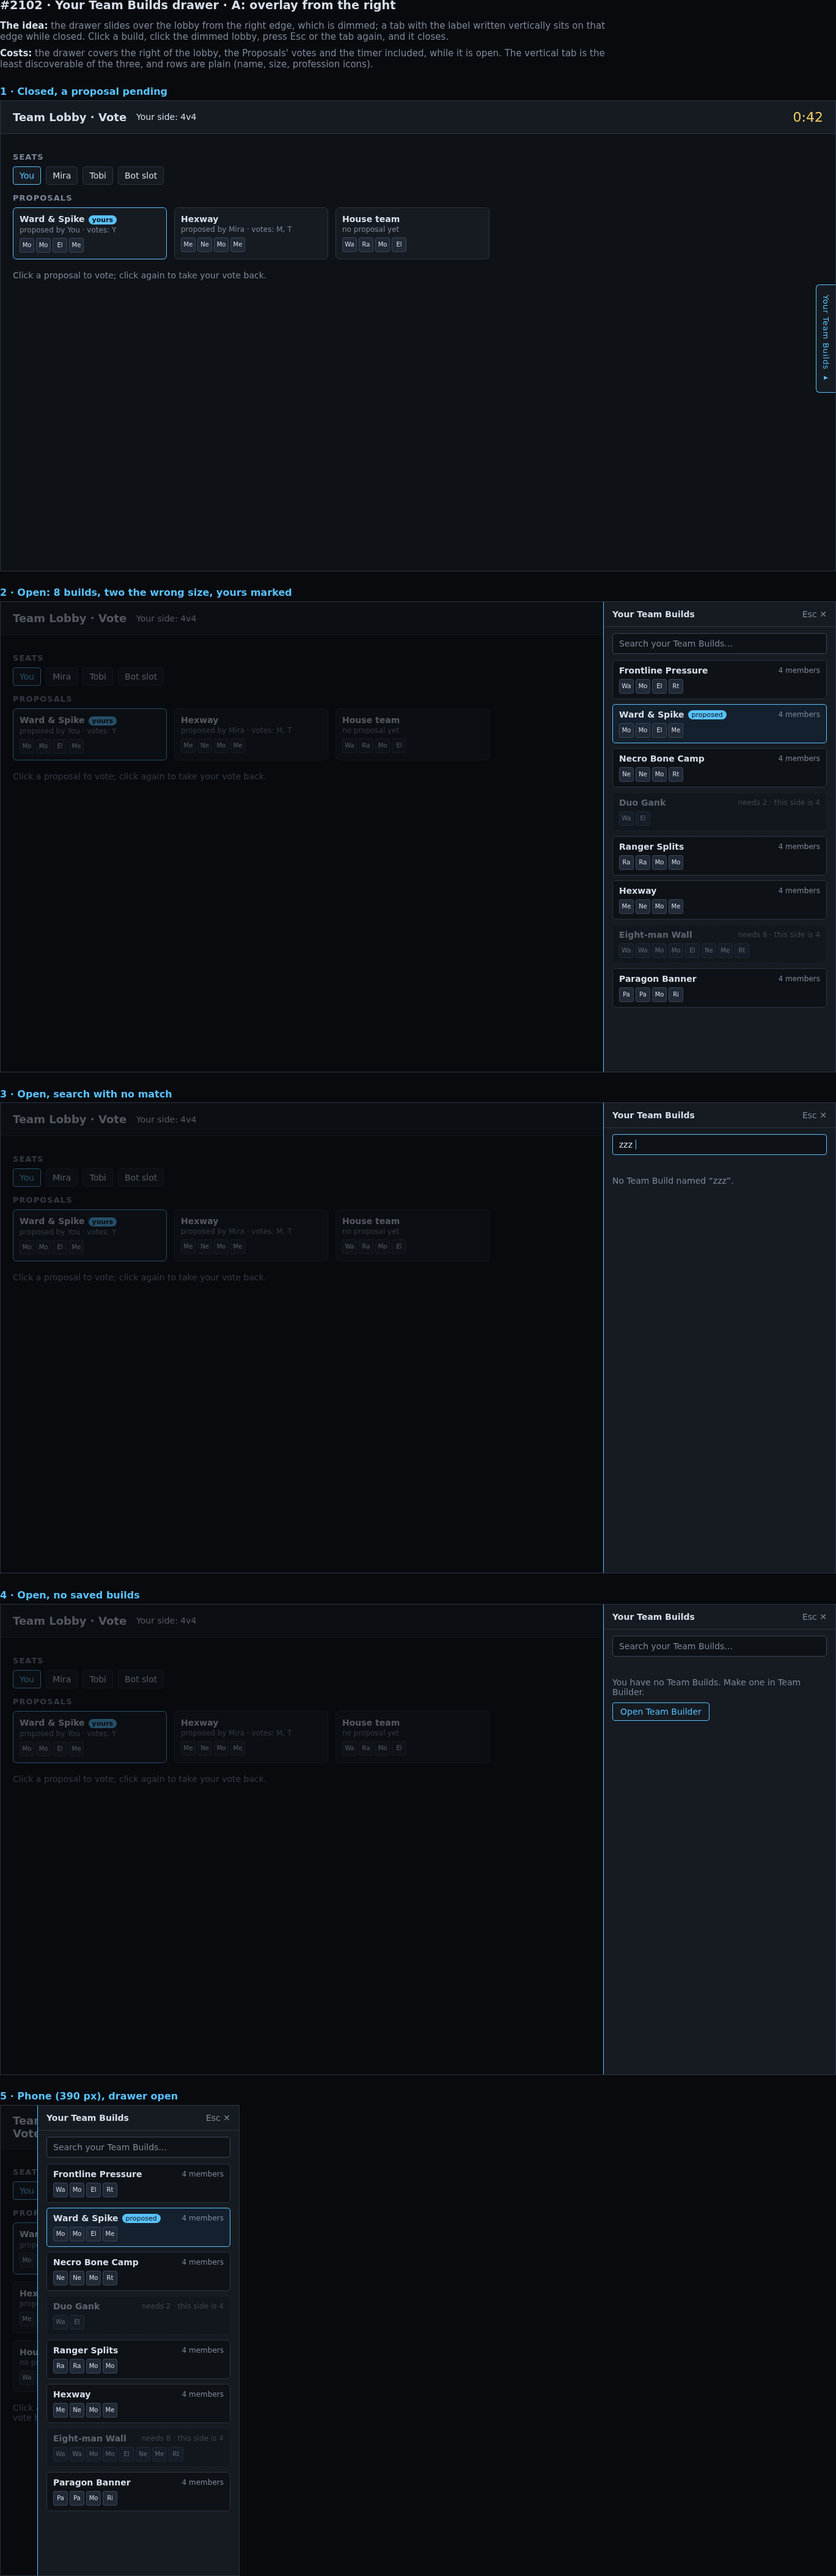
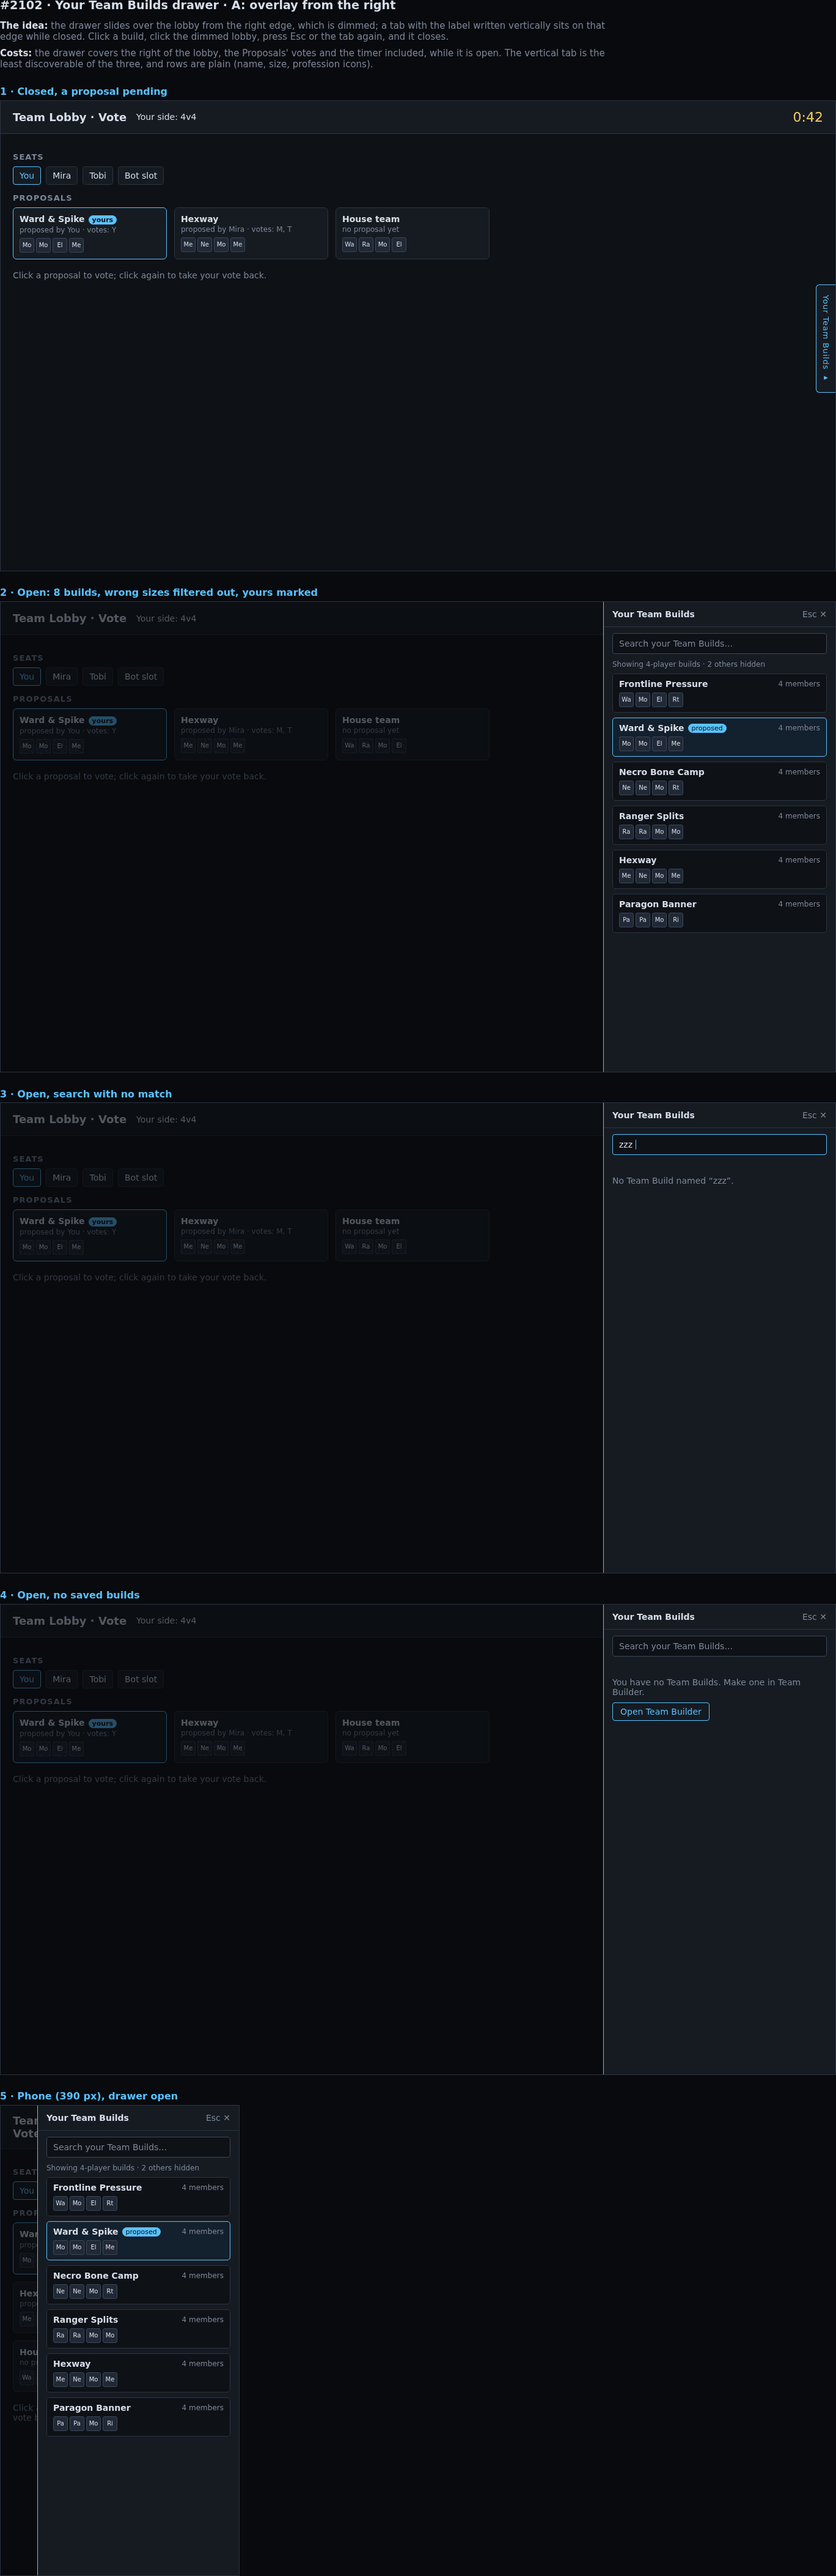
#2102: drawer filters out builds of the wrong size, with a hint

Changed region(s): [[0.0614, 0.8399, 0.2763, 0.9644], [0.7368, 0.2489, 0.8596, 0.4044], [0.9211, 0.2489, 0.9825, 0.3422]]

diff --git a/docs/mockups/2102-builds-drawer-c.html b/docs/mockups/2102-builds-drawer-c.html
@@ -221,6 +221,11 @@
   .row2.off .s {
     color: #ffa657;
   }
+  .hint {
+    padding: 0 14px 8px;
+    color: #7d8899;
+    font-size: 12px;
+  }
   .empty {
     padding: 24px 14px;
     color: #7d8899;
@@ -298,9 +303,13 @@
   };
   const NONE = "You have no Team Builds. Make one in Team Builder.";
   const list = (q, ex) => {
-    const r = B.map((b, i) => [b, i]).filter(([b]) => b[0].toLowerCase().includes(q.toLowerCase()));
+    const r = B.map((b, i) => [b, i]).filter(
+      ([b]) => b[1] === 4 && b[0].toLowerCase().includes(q.toLowerCase()),
+    );
     return r.length
-      ? '<div class="list">' + r.map(([b, i]) => rowHtml(b, i, ex)).join("") + "</div>"
+      ? '<div class="hint">Showing 4-player builds · 2 others hidden</div><div class="list">' +
+          r.map(([b, i]) => rowHtml(b, i, ex)).join("") +
+          "</div>"
       : '<div class="empty">No Team Build named “' + q + "”.</div>";
   };
   const search = (q) =>
@@ -311,7 +320,7 @@
 </script>
 <h2>1 · Closed, a proposal pending</h2>
 <div class="row"><div class="f d" id="d1"></div></div>
-<h2>2 · Open: 8 builds, two the wrong size, yours marked</h2>
+<h2>2 · Open: 8 builds, wrong sizes filtered out, yours marked</h2>
 <div class="row"><div class="f d" id="d2"></div></div>
 <h2>3 · Open, search with no match</h2>
 <div class="row"><div class="f d" id="d3"></div></div>
@@ -332,9 +341,11 @@
     '<div style="grid-column:1/3" class="go"><span class="btn">Propose this build</span></div></div>';
   const rowOpen = (b, i) => rowHtml(b, i, ex);
   const lst = (q, openIdx) => {
-    const r = B.map((b, i) => [b, i]).filter(([b]) => b[0].toLowerCase().includes(q.toLowerCase()));
+    const r = B.map((b, i) => [b, i]).filter(
+      ([b]) => b[1] === 4 && b[0].toLowerCase().includes(q.toLowerCase()),
+    );
     return r.length
-      ? '<div class="list">' +
+      ? '<div class="hint">Showing 4-player builds · 2 others hidden</div><div class="list">' +
           r.map(([b, i]) => (i === openIdx ? rowOpen(b, i) : rowHtml(b, i, null))).join("") +
           "</div>"
       : '<div class="empty">No Team Build named “' + q + "”.</div>";

diff --git a/docs/mockups/2102-builds-drawer-a.html b/docs/mockups/2102-builds-drawer-a.html
@@ -221,6 +221,11 @@
   .row2.off .s {
     color: #ffa657;
   }
+  .hint {
+    padding: 0 14px 8px;
+    color: #7d8899;
+    font-size: 12px;
+  }
   .empty {
     padding: 24px 14px;
     color: #7d8899;
@@ -298,9 +303,13 @@
   };
   const NONE = "You have no Team Builds. Make one in Team Builder.";
   const list = (q, ex) => {
-    const r = B.map((b, i) => [b, i]).filter(([b]) => b[0].toLowerCase().includes(q.toLowerCase()));
+    const r = B.map((b, i) => [b, i]).filter(
+      ([b]) => b[1] === 4 && b[0].toLowerCase().includes(q.toLowerCase()),
+    );
     return r.length
-      ? '<div class="list">' + r.map(([b, i]) => rowHtml(b, i, ex)).join("") + "</div>"
+      ? '<div class="hint">Showing 4-player builds · 2 others hidden</div><div class="list">' +
+          r.map(([b, i]) => rowHtml(b, i, ex)).join("") +
+          "</div>"
       : '<div class="empty">No Team Build named “' + q + "”.</div>";
   };
   const search = (q) =>
@@ -311,7 +320,7 @@
 </script>
 <h2>1 · Closed, a proposal pending</h2>
 <div class="row"><div class="f d" id="d1"></div></div>
-<h2>2 · Open: 8 builds, two the wrong size, yours marked</h2>
+<h2>2 · Open: 8 builds, wrong sizes filtered out, yours marked</h2>
 <div class="row"><div class="f d" id="d2"></div></div>
 <h2>3 · Open, search with no match</h2>
 <div class="row"><div class="f d" id="d3"></div></div>

diff --git a/docs/mockups/2102-builds-drawer-b.html b/docs/mockups/2102-builds-drawer-b.html
@@ -221,6 +221,11 @@
   .row2.off .s {
     color: #ffa657;
   }
+  .hint {
+    padding: 0 14px 8px;
+    color: #7d8899;
+    font-size: 12px;
+  }
   .empty {
     padding: 24px 14px;
     color: #7d8899;
@@ -297,9 +302,13 @@
   };
   const NONE = "You have no Team Builds. Make one in Team Builder.";
   const list = (q, ex) => {
-    const r = B.map((b, i) => [b, i]).filter(([b]) => b[0].toLowerCase().includes(q.toLowerCase()));
+    const r = B.map((b, i) => [b, i]).filter(
+      ([b]) => b[1] === 4 && b[0].toLowerCase().includes(q.toLowerCase()),
+    );
     return r.length
-      ? '<div class="list">' + r.map(([b, i]) => rowHtml(b, i, ex)).join("") + "</div>"
+      ? '<div class="hint">Showing 4-player builds · 2 others hidden</div><div class="list">' +
+          r.map(([b, i]) => rowHtml(b, i, ex)).join("") +
+          "</div>"
       : '<div class="empty">No Team Build named “' + q + "”.</div>";
   };
   const search = (q) =>
@@ -310,7 +319,7 @@
 </script>
 <h2>1 · Closed, a proposal pending</h2>
 <div class="row"><div class="f d" id="d1"></div></div>
-<h2>2 · Open: 8 builds, two the wrong size, yours marked</h2>
+<h2>2 · Open: 8 builds, wrong sizes filtered out, yours marked</h2>
 <div class="row"><div class="f d" id="d2"></div></div>
 <h2>3 · Open, search with no match</h2>
 <div class="row"><div class="f d" id="d3"></div></div>
